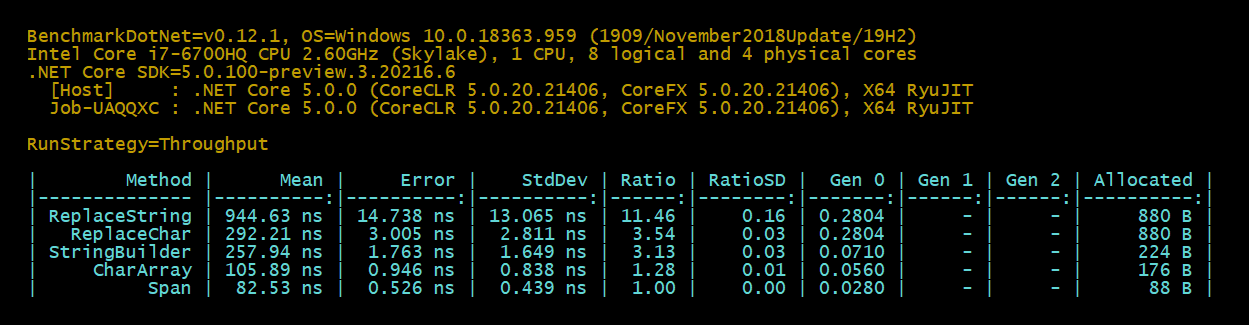
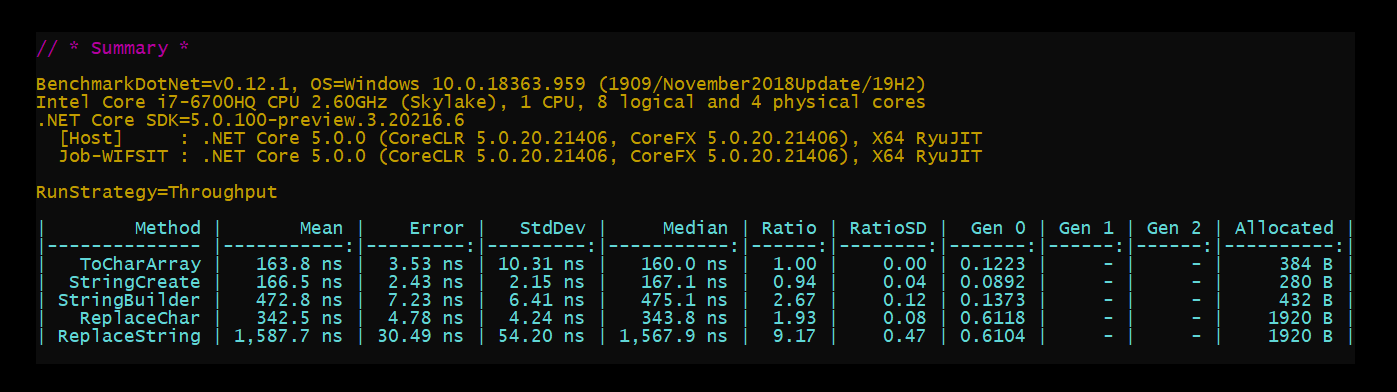
Using string.Create instead of direct stackalloc Span

Changed region(s): [[0.0, 0.0923, 0.968, 0.9231]]

diff --git a/Replace-CharArray-Benchmark/BenchmarkDotNet.Artifacts/Replace_CharArray_Benchmark.Benchmark-report.html b/Replace-CharArray-Benchmark/BenchmarkDotNet.Artifacts/Replace_CharArray_Benchmark.Benchmark-report.html
@@ -2,7 +2,7 @@
 <html lang='en'>
 <head>
 <meta charset='utf-8' />
-<title>Replace_CharArray_Benchmark.Benchmark-20200718-104500</title>
+<title>Replace_CharArray_Benchmark.Benchmark-20200718-152007</title>
 
 <style type="text/css">
 	table { border-collapse: collapse; display: block; width: 100%; overflow: auto; }
@@ -17,19 +17,19 @@ BenchmarkDotNet=v0.12.1, OS=Windows 10.0.18363.959 (1909/November2018Update/19H2
 Intel Core i7-6700HQ CPU 2.60GHz (Skylake), 1 CPU, 8 logical and 4 physical cores
 .NET Core SDK=5.0.100-preview.3.20216.6
   [Host]     : .NET Core 5.0.0 (CoreCLR 5.0.20.21406, CoreFX 5.0.20.21406), X64 RyuJIT
-  Job-UAQQXC : .NET Core 5.0.0 (CoreCLR 5.0.20.21406, CoreFX 5.0.20.21406), X64 RyuJIT
+  Job-WIFSIT : .NET Core 5.0.0 (CoreCLR 5.0.20.21406, CoreFX 5.0.20.21406), X64 RyuJIT
 </code></pre>
 <pre><code>RunStrategy=Throughput  
 </code></pre>
 
 <table>
-<thead><tr><th> Method</th><th>Mean</th><th>Error</th><th>StdDev</th><th>Ratio</th><th>RatioSD</th><th>Gen 0</th><th>Gen 1</th><th>Gen 2</th><th>Allocated</th>
+<thead><tr><th> Method</th><th>Mean</th><th>Error</th><th>StdDev</th><th>Median</th><th>Ratio</th><th>RatioSD</th><th>Gen 0</th><th>Gen 1</th><th>Gen 2</th><th>Allocated</th>
 </tr>
-</thead><tbody><tr><td>ReplaceString</td><td>944.63 ns</td><td>14.738 ns</td><td>13.065 ns</td><td>11.46</td><td>0.16</td><td>0.2804</td><td>-</td><td>-</td><td>880 B</td>
-</tr><tr><td>ReplaceChar</td><td>292.21 ns</td><td>3.005 ns</td><td>2.811 ns</td><td>3.54</td><td>0.03</td><td>0.2804</td><td>-</td><td>-</td><td>880 B</td>
-</tr><tr><td>StringBuilder</td><td>257.94 ns</td><td>1.763 ns</td><td>1.649 ns</td><td>3.13</td><td>0.03</td><td>0.0710</td><td>-</td><td>-</td><td>224 B</td>
-</tr><tr><td>CharArray</td><td>105.89 ns</td><td>0.946 ns</td><td>0.838 ns</td><td>1.28</td><td>0.01</td><td>0.0560</td><td>-</td><td>-</td><td>176 B</td>
-</tr><tr><td>Span</td><td>82.53 ns</td><td>0.526 ns</td><td>0.439 ns</td><td>1.00</td><td>0.00</td><td>0.0280</td><td>-</td><td>-</td><td>88 B</td>
+</thead><tbody><tr><td>ToCharArray</td><td>163.8 ns</td><td>3.53 ns</td><td>10.31 ns</td><td>160.0 ns</td><td>1.00</td><td>0.00</td><td>0.1223</td><td>-</td><td>-</td><td>384 B</td>
+</tr><tr><td>StringCreate</td><td>166.5 ns</td><td>2.43 ns</td><td>2.15 ns</td><td>167.1 ns</td><td>0.94</td><td>0.04</td><td>0.0892</td><td>-</td><td>-</td><td>280 B</td>
+</tr><tr><td>StringBuilder</td><td>472.8 ns</td><td>7.23 ns</td><td>6.41 ns</td><td>475.1 ns</td><td>2.67</td><td>0.12</td><td>0.1373</td><td>-</td><td>-</td><td>432 B</td>
+</tr><tr><td>ReplaceChar</td><td>342.5 ns</td><td>4.78 ns</td><td>4.24 ns</td><td>343.8 ns</td><td>1.93</td><td>0.08</td><td>0.6118</td><td>-</td><td>-</td><td>1920 B</td>
+</tr><tr><td>ReplaceString</td><td>1,587.7 ns</td><td>30.49 ns</td><td>54.20 ns</td><td>1,567.9 ns</td><td>9.17</td><td>0.47</td><td>0.6104</td><td>-</td><td>-</td><td>1920 B</td>
 </tr></tbody></table>
 </body>
 </html>

diff --git a/Replace-CharArray-Benchmark/Benchmark.cs b/Replace-CharArray-Benchmark/Benchmark.cs
@@ -1,10 +1,6 @@
 using BenchmarkDotNet.Attributes;
 using BenchmarkDotNet.Engines;
-using System;
-using System.Collections.Generic;
-using System.Linq;
 using System.Text;
-using System.Threading.Tasks;
 
 namespace Replace_CharArray_Benchmark
 {
@@ -13,34 +9,34 @@ namespace Replace_CharArray_Benchmark
     [KeepBenchmarkFiles(false)]
     public class Benchmark
     {
-        [Benchmark]
-        public void ReplaceString()
+        [Benchmark(Baseline = true)]
+        public void ToCharArray()
         {
-            UsingReplaceString("012345678901234567890123456789");
[1 lines of base64/hex data omitted]
         }
 
         [Benchmark]
-        public void ReplaceChar()
+        public void StringCreate()
         {
-            UsingReplaceChar("012345678901234567890123456789");
[1 lines of base64/hex data omitted]
         }
 
         [Benchmark]
         public void StringBuilder()
         {
-            UsingStringBuilder("012345678901234567890123456789");
[1 lines of base64/hex data omitted]
         }
 
         [Benchmark]
-        public void CharArray()
+        public void ReplaceChar()
         {
-            UsingCharArray("012345678901234567890123456789");
[1 lines of base64/hex data omitted]
         }
 
-        [Benchmark(Baseline = true)]
-        public void Span()
+        [Benchmark]
+        public void ReplaceString()
         {
-            UsingSpan("012345678901234567890123456789");
[1 lines of base64/hex data omitted]
         }
 
         private static string UsingReplaceString(string data)
@@ -82,174 +78,75 @@ namespace Replace_CharArray_Benchmark
             var strBuilder = new StringBuilder(data);
             for (var i = 0; i < strBuilder.Length; i++)
             {
-                switch (strBuilder[i])
+                strBuilder[i] = (strBuilder[i]) switch
                 {
-                    case '0':
-                        strBuilder[i] = '\u06F0';
-                        break;
-
-                    case '1':
-                        strBuilder[i] = '\u06F1';
-                        break;
-
-                    case '2':
-                        strBuilder[i] = '\u06F2';
-                        break;
-
-                    case '3':
-                        strBuilder[i] = '\u06F3';
-                        break;
-
-                    case '4':
-                        strBuilder[i] = '\u06F4';
-                        break;
-
-                    case '5':
-                        strBuilder[i] = '\u06F5';
-                        break;
-
-                    case '6':
-                        strBuilder[i] = '\u06F6';
-                        break;
-
-                    case '7':
-                        strBuilder[i] = '\u06F7';
-                        break;
-
-                    case '8':
-                        strBuilder[i] = '\u06F8';
-                        break;
-
-                    case '9':
-                        strBuilder[i] = '\u06F9';
-                        break;
-
-                    default:
-                        strBuilder[i] = strBuilder[i];
-                        break;
-                }
+                    '0' => '\u06F0',
+                    '1' => '\u06F1',
+                    '2' => '\u06F2',
+                    '3' => '\u06F3',
+                    '4' => '\u06F4',
+                    '5' => '\u06F5',
+                    '6' => '\u06F6',
+                    '7' => '\u06F7',
+                    '8' => '\u06F8',
+                    '9' => '\u06F9',
+                    char c => c,
+                };
             }
 
             return strBuilder.ToString();
         }
 
-        private static string UsingCharArray(string data)
+        private static string UsingStringCreate(string data)
         {
             if (string.IsNullOrWhiteSpace(data)) return string.Empty;
 
-            var letters = data.ToCharArray();
-            for (var i = 0; i < letters.Length; i++)
+            return string.Create(data.Length, data, (chars, context) =>
             {
-                switch (letters[i])
+                for (int i = 0; i < data.Length; i++)
                 {
-                    case '0':
-                        letters[i] = '\u06F0';
-                        break;
-
-                    case '1':
-                        letters[i] = '\u06F1';
-                        break;
-
-                    case '2':
-                        letters[i] = '\u06F2';
-                        break;
-
-                    case '3':
-                        letters[i] = '\u06F3';
-                        break;
-
-                    case '4':
-                        letters[i] = '\u06F4';
-                        break;
-
-                    case '5':
-                        letters[i] = '\u06F5';
-                        break;
-
-                    case '6':
-                    case '\u0666':
-                        letters[i] = '\u06F6';
-                        break;
-
-                    case '7':
-                        letters[i] = '\u06F7';
-                        break;
-
-                    case '8':
-                        letters[i] = '\u06F8';
-                        break;
-
-                    case '9':
-                        letters[i] = '\u06F9';
-                        break;
-
-                    default:
-                        letters[i] = letters[i];
-                        break;
+                    chars[i] = (data[i]) switch
+                    {
+                        '0' => '\u06F0',
+                        '1' => '\u06F1',
+                        '2' => '\u06F2',
+                        '3' => '\u06F3',
+                        '4' => '\u06F4',
+                        '5' => '\u06F5',
+                        '6' => '\u06F6',
+                        '7' => '\u06F7',
+                        '8' => '\u06F8',
+                        '9' => '\u06F9',
+                        _ => data[i],
+                    };
                 }
-            }
-
-            return new string(letters);
+            });
         }
 
-        private static string UsingSpan(string data)
+        private static string UsingToCharArray(string data)
         {
             if (string.IsNullOrWhiteSpace(data)) return string.Empty;
 
-            Span<char> span = stackalloc char[data.Length]; // DOES NOT heap allocate
-
-            for (int i = 0; i < data.Length; i++)
+            var chars = data.ToCharArray();
+            for (var i = 0; i < chars.Length; i++)
             {
-                switch (data[i])
+                chars[i] = (chars[i]) switch
                 {
-                    case '0':
-                        span[i] = '\u06F0';
-                        break;
-
-                    case '1':
-                        span[i] = '\u06F1';
-                        break;
-
-                    case '2':
-                        span[i] = '\u06F2';
-                        break;
-
-                    case '3':
-                        span[i] = '\u06F3';
-                        break;
-
-                    case '4':
-                        span[i] = '\u06F4';
-                        break;
-
-                    case '5':
-                        span[i] = '\u06F5';
-                        break;
-
-                    case '6':
-                    case '\u0666':
-                        span[i] = '\u06F6';
-                        break;
-
-                    case '7':
-                        span[i] = '\u06F7';
-                        break;
-
-                    case '8':
-                        span[i] = '\u06F8';
-                        break;
-
-                    case '9':
-                        span[i] = '\u06F9';
-                        break;
-
-                    default:
-                        span[i] = data[i];
-                        break;
-                }
+                    '0' => '\u06F0',
+                    '1' => '\u06F1',
+                    '2' => '\u06F2',
+                    '3' => '\u06F3',
+                    '4' => '\u06F4',
+                    '5' => '\u06F5',
+                    '6' => '\u06F6',
+                    '7' => '\u06F7',
+                    '8' => '\u06F8',
+                    '9' => '\u06F9',
+                    _ => chars[i],
+                };
             }
 
-            return new string(span);
+            return new string(chars);
         }
     }
 }

diff --git a/Replace-CharArray-Benchmark/README.md b/Replace-CharArray-Benchmark/README.md
@@ -1,18 +1,9 @@
-``` ini
 
-BenchmarkDotNet=v0.12.1, OS=Windows 10.0.18363.959 (1909/November2018Update/19H2)
-Intel Core i7-6700HQ CPU 2.60GHz (Skylake), 1 CPU, 8 logical and 4 physical cores
-.NET Core SDK=5.0.100-preview.3.20216.6
-  [Host]     : .NET Core 5.0.0 (CoreCLR 5.0.20.21406, CoreFX 5.0.20.21406), X64 RyuJIT
-  Job-UAQQXC : .NET Core 5.0.0 (CoreCLR 5.0.20.21406, CoreFX 5.0.20.21406), X64 RyuJIT
+# Replace String Benchmark
 
-RunStrategy=Throughput  
+### Key Result:
 
-```
-|        Method |      Mean |     Error |    StdDev | Ratio | RatioSD |  Gen 0 | Gen 1 | Gen 2 | Allocated |
-|-------------- |----------:|----------:|----------:|------:|--------:|-------:|------:|------:|----------:|
-| ReplaceString | 944.63 ns | 14.738 ns | 13.065 ns | 11.46 |    0.16 | 0.2804 |     - |     - |     880 B |
-|   ReplaceChar | 292.21 ns |  3.005 ns |  2.811 ns |  3.54 |    0.03 | 0.2804 |     - |     - |     880 B |
-| StringBuilder | 257.94 ns |  1.763 ns |  1.649 ns |  3.13 |    0.03 | 0.0710 |     - |     - |     224 B |
-|     CharArray | 105.89 ns |  0.946 ns |  0.838 ns |  1.28 |    0.01 | 0.0560 |     - |     - |     176 B |
-|          Span |  82.53 ns |  0.526 ns |  0.439 ns |  1.00 |    0.00 | 0.0280 |     - |     - |      88 B |
+- `ToCharArray` : **Fastest** but 28% (in my test) **more allocation** than string.Create()
+- `string.Create` : About the **same speed** but **less allocation** (*string.Create uses Span and applies to .NETStandard 2.1 and above*)
+
+![benchmark](BenchmarkDotNet.Artifacts/Replace_CharArray_Benchmark.Benchmark-report.png)
